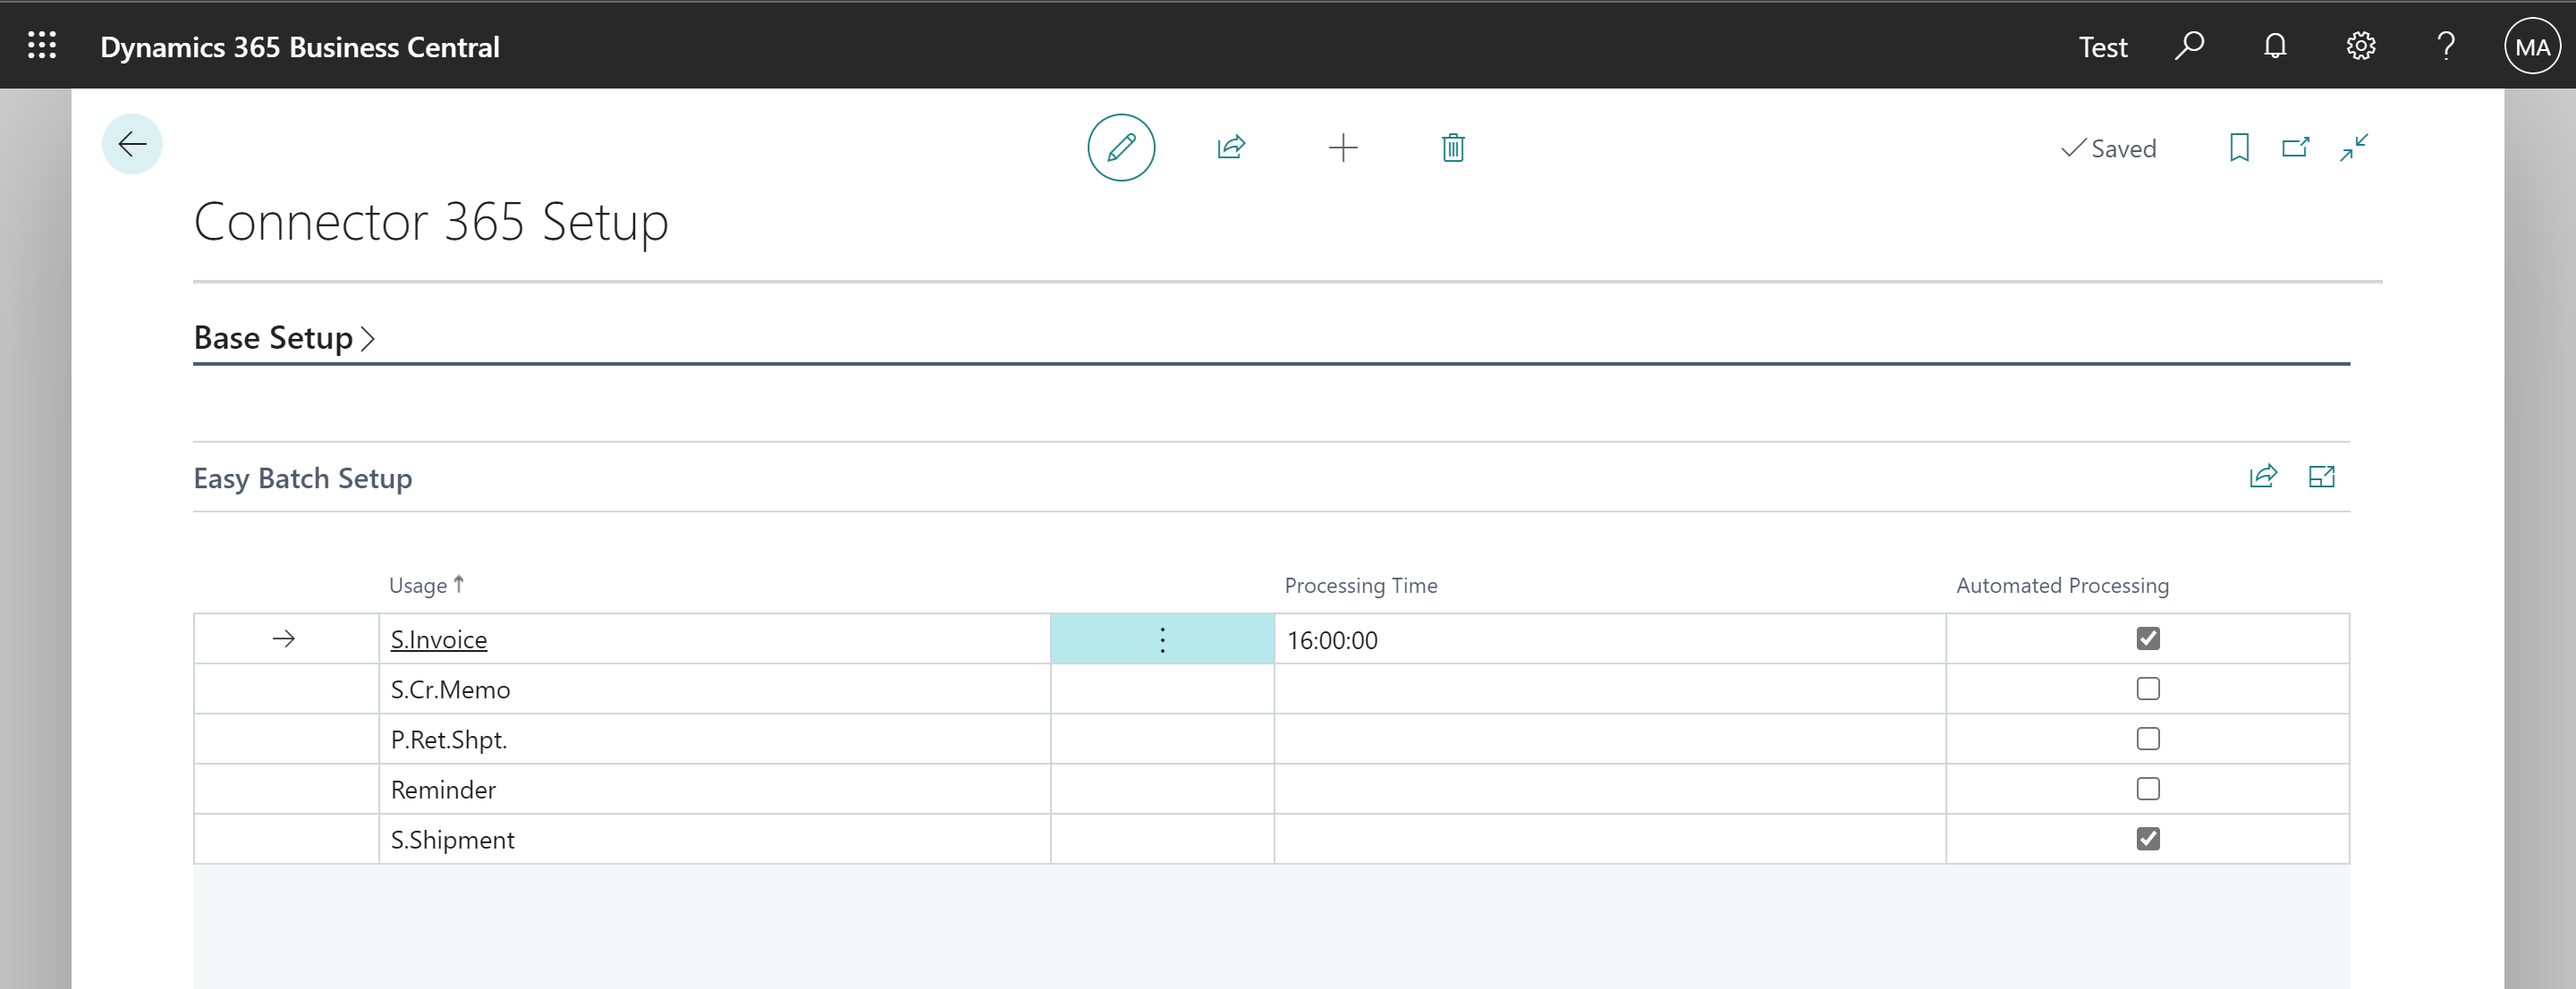
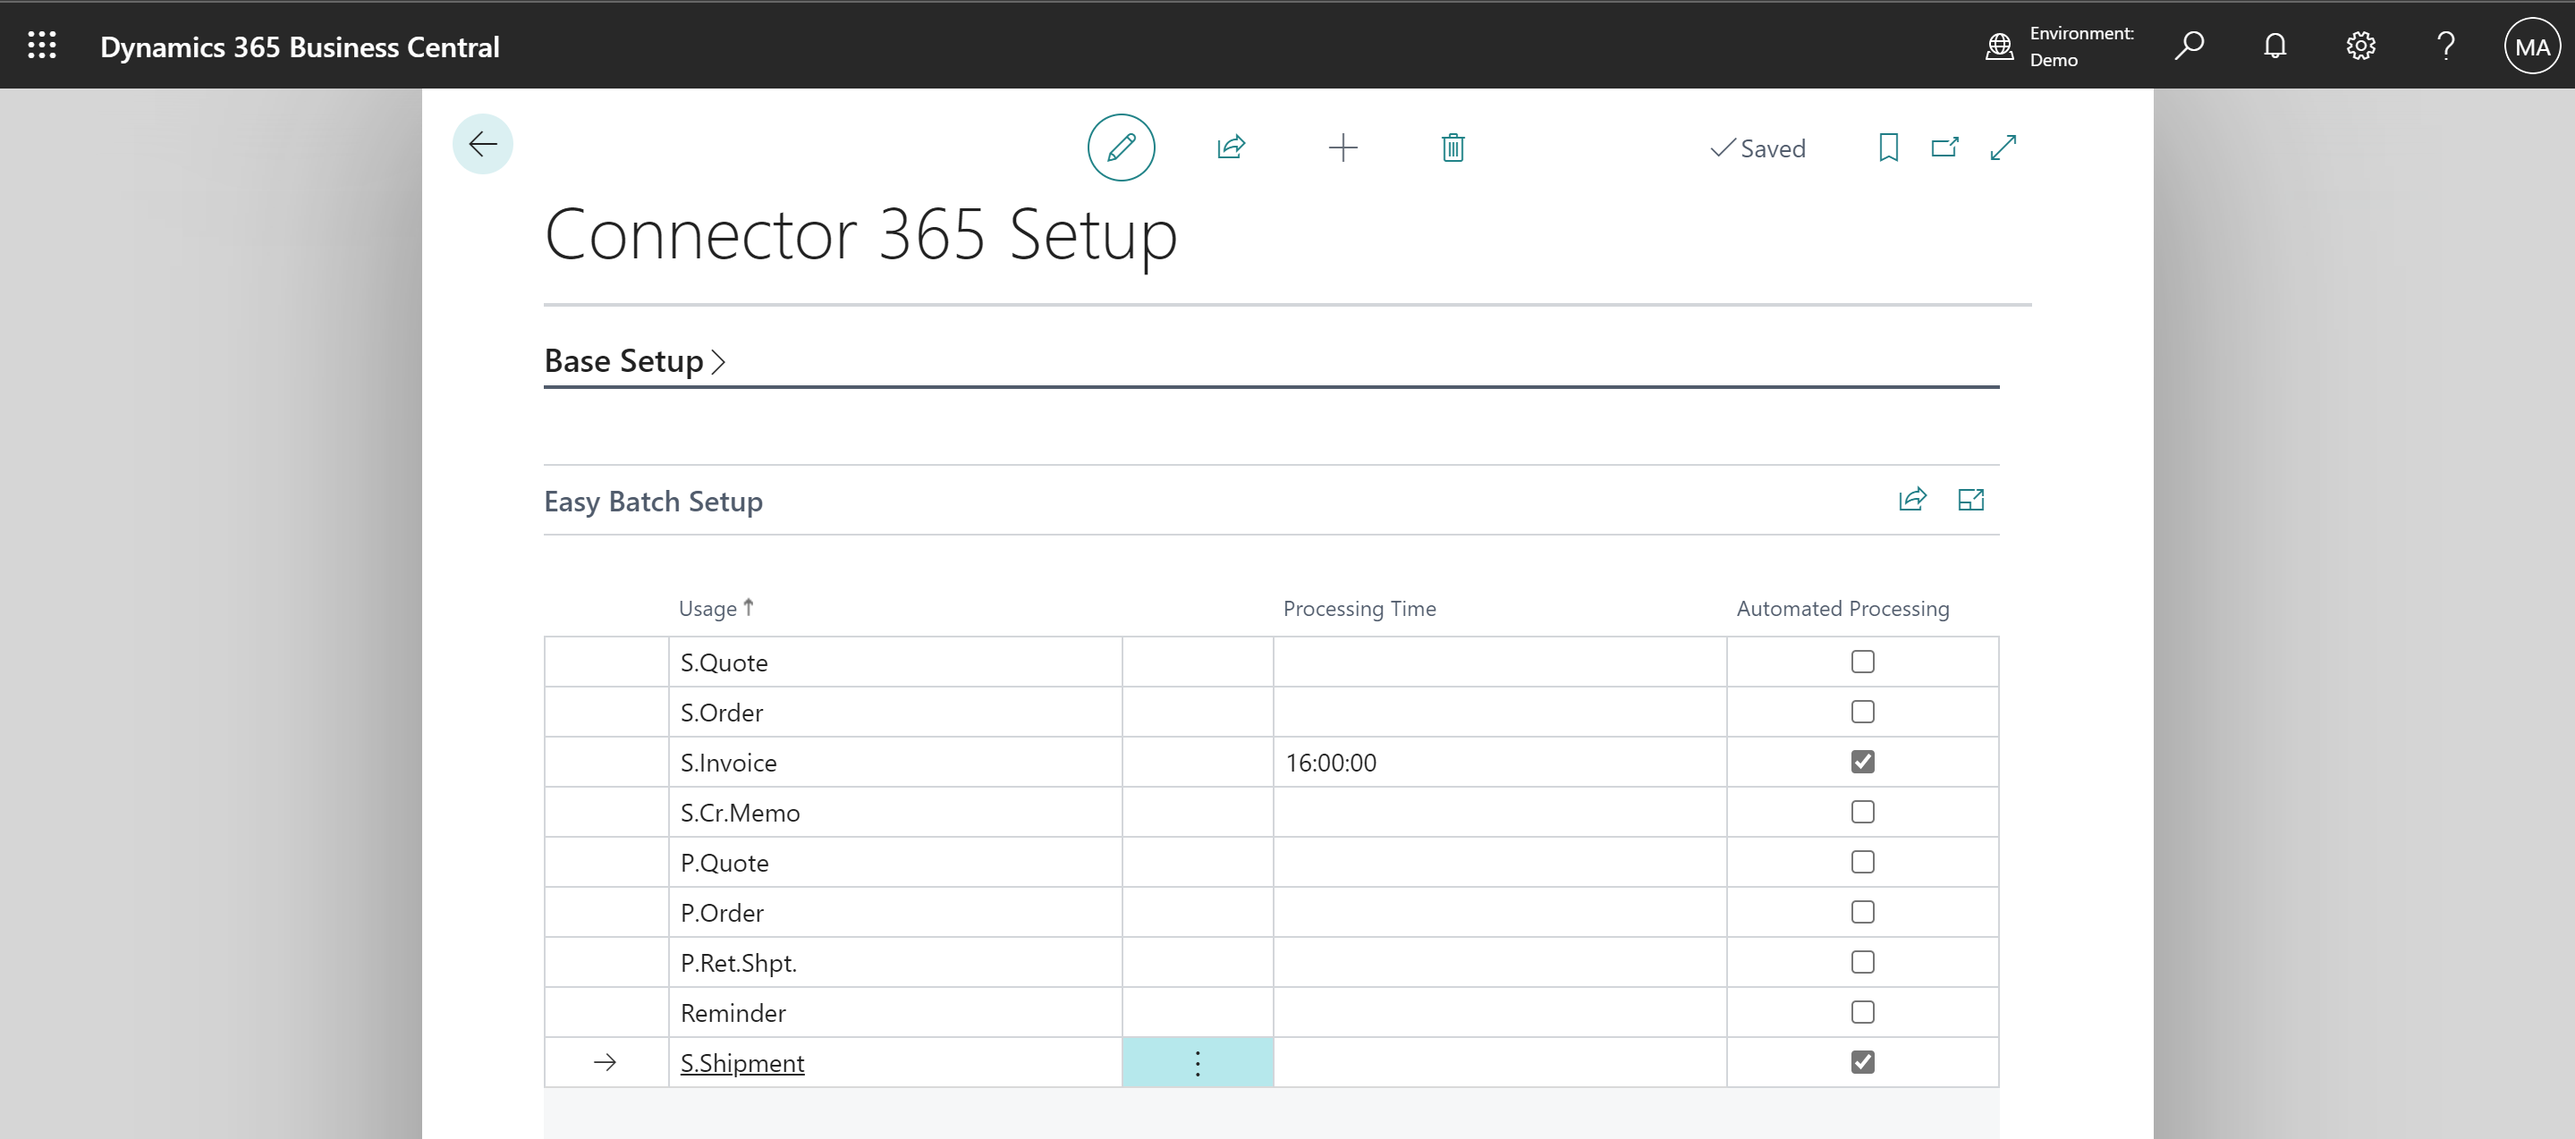
Updated Documentation for Easy Batch

diff --git a/content/de-de/Apps/pdfpaper/new and planned/_index.md b/content/de-de/Apps/pdfpaper/new and planned/_index.md
@@ -13,3 +13,22 @@ Hier finden Sie alle wichtigen Informationen und Hinweise zu neuen und geplanten
 Nutzen Sie einfach entweder das untere oder linke Navigationsmenü.
 
 Für den Fall, dass Ihnen eine Frage nicht beantwortet werden konnte, helfen wir Ihnen gerne persönlich weiter. Die nötigen Kontaktinformationen finden Sie auf der [Support-Seite](de-de/apps/help-and-support/).
+
+### Geplante Funktionen für zukünftige Versionen
+- Weitere Funktionen aus Modul PdfPaper
+- Integration von PDF/A-Funktion
+### Version 1.1.0.0 - 04.01.2023
+- Implementierung der neuen Lizenzprüfung.
+### Version 1.0.0.3
+Neue Funktionen:
+- Mergen von mehreren PDF-Dateien zu einer einzigen
+- Automatisches Drehen von PDF-Dateien, wenn diese im Querformat vorhanden sind
+- Aktionsknöpfe, um Briefpapier per Knopfdruck wieder zu entfernen 
+- Briefpapier global unter Firmendaten einrichtbar
+
+Korrekturen:
+- Korrekter Dateiname bei der Vorschau von Briefpapieren
+### Version 1.0.0.0
+- Hinterlegen von Briefpapier pro Bericht & Debitor
+- Anlegen von mehreren Briefpapieren
+- Vorschaufunktion

diff --git a/content/en-us/Apps/pdfpaper/new and planned/_index.md b/content/en-us/Apps/pdfpaper/new and planned/_index.md
@@ -13,3 +13,24 @@ Here you will find all important information and notes about new and planned fea
 Simply use either the bottom or left navigation menu.
 
 In case a question could not be answered, we will be happy to help you personally. You will find the necessary contact information on the [support page](en-us/apps/help-and-support/).
+
+### Planned functions for future versions
+- Additional functions from PdfPaper module
+- Integration of PDF/A functionality
+### Version 1.1.0.0 - 04.01.2023
+- Implementation of new license check.
+### Version 1.0.0.3
+New features:
+- Merge multiple PDF files into one
+- Automatic rotation of PDF files if they are in landscape format
+- Action buttons to remove stationery at the touch of a button
+- Stationery can be set up globally under company data
+
+Corrections:
+- Correction for file name when previewing pdf stationery
+### Version 1.0.0.0
+- Setting of stationery per report & customer
+- Create multiple stationery
+- Preview function
+
+

diff --git a/content/de-de/Apps/easy-batch/first steps/setup/easy-batch-setup.md b/content/de-de/Apps/easy-batch/first steps/setup/easy-batch-setup.md
@@ -24,3 +24,4 @@ Im Feld **Verarbeitungszeit** können Sie eine feste Zeit hinterlegen, zu welche
 Wenn Sie dieses Feld leer lassen, werden diese Belege immer sofort verarbeitet.
 
 Über das Feld **Automatisierte Verarbeitung** können Sie festlegen, dass Belege dieser Art automatisch zur Verarbeitung eingestellt werden, sobald diese gebucht werden.
+Bei Nutzung dieser Einstellung für ungebuchte Belege wie Verkaufsaufträge werden diese zur eingestellten Zeit zur Verarbeitung eingestellt, sobald diese freigegeben sind.

diff --git a/content/de-de/Apps/cti-for-starface/new and planned/_index.md b/content/de-de/Apps/cti-for-starface/new and planned/_index.md
@@ -17,7 +17,7 @@ Nutzen Sie einfach entweder das untere oder linke Navigationsmenü.
 - Ausblenden der CTI Funktionen im Rollencenter für Nicht-CTI-Nutzer
 - Herstellen der Kompatibilität für Version 7.2 und 7.3 der STARFACE Telefonanlage
 
-### Version 2.1.0.0 - 04.01.2023
+### Version 2.1.0.0 - 06.01.2023
 - Implementierung der neuen Lizenzprüfung
 - Fehlerkorrektur beim Schreiben von Aktivitäteneinträgen.
   Hier kam es einigen Fällen zu einem Fehler, da der Datensatz bereits vorhanden war.

diff --git a/content/en-us/Apps/cti-for-starface/new and planned/_index.md b/content/en-us/Apps/cti-for-starface/new and planned/_index.md
@@ -19,7 +19,7 @@ In case a question could not be answered, we will be glad to help you personally
 - Hiding the CTI functions in the Role center for non-CTI users
 - Add compatibility for versons 7.2 and 7.3 for STARFACE phone systems
 
-### Version 2.1.0.0 - 04.01.2023
+### Version 2.1.0.0 - 06.01.2023
 - Implementation of new license check.
 - Error correction for writng of activity entries.
   In some cases an error occured while writing the entry, because it already existed.

diff --git a/content/en-us/Apps/easy-batch/first steps/setup/easy-batch-setup.md b/content/en-us/Apps/easy-batch/first steps/setup/easy-batch-setup.md
@@ -24,3 +24,4 @@ In the field **Processing Time** you can enter a fixed time when documents of th
 If you leave this field empty, all documents will be processed immediately.
 
 Using the field **Automated Processing** you can define that all documents of this type shall be processed automatically after being posted.
+Using this setting for unposted documents like sales orders, will enqueue those for automated processing at the set up time as soon as they are released.

diff --git a/content/de-de/Apps/addressee-control/new and planned/_index.md b/content/de-de/Apps/addressee-control/new and planned/_index.md
@@ -14,7 +14,7 @@ Nutzen Sie einfach entweder das untere oder linke Navigationsmenü.
 
 Für den Fall, dass Ihnen eine Frage nicht beantwortet werden konnte, helfen wir Ihnen gerne persönlich weiter. Die nötigen Kontaktinformationen finden Sie auf der [Support-Seite](de-de/apps/help-and-support/).
 
-### Version 1.1.0.0 - 04.01.2023
+### Version 1.1.0.0 - 06.01.2023
 - Implementierung der neuen Lizenzprüfung
 
 ### Version 1.0.0.1 - 17.11.2022

diff --git a/content/en-us/Apps/addressee-control/new and planned/_index.md b/content/en-us/Apps/addressee-control/new and planned/_index.md
@@ -14,7 +14,7 @@ Simply use either the bottom or left navigation menu.
 
 In case a question could not be answered, we will be happy to help you personally. You can find the necessary contact information on the [support page](en-us/apps/help-and-support/).
 
-### Version 1.1.0.0 - 04.01.2023
+### Version 1.1.0.0 - 06.01.2023
 - Implementation of new license check.
 
 ### Version 1.0.0.1 - 17.11.2022

diff --git a/content/de-de/Apps/easy-batch/new and planned/_index.md b/content/de-de/Apps/easy-batch/new and planned/_index.md
@@ -12,7 +12,7 @@ weight: 1
 ### Geplante Funktionen für zukünftige Versionen
 - Implementierung weiterer Belege aus dem Einkaufsbereich sowie Servicebereich.
 
-### Version 2.3.0.0 - 04.01.2023
+### Version 2.3.0.0 - 06.01.2023
 - Implementierung der neuen Lizenzprüfung.
 - Einkaufsbereich um Einkaufsanfragen erweitert.
 - Automatisierter Versand für Einkaufsbestellungen und Einkaufsanfragen.

diff --git a/content/en-us/Apps/easy-batch/new and planned/_index.md b/content/en-us/Apps/easy-batch/new and planned/_index.md
@@ -12,7 +12,7 @@ weight: 1
 ### Planned functions for future versions
 - Implementation of new document types from purchase as well as service.
 
-### Version 2.3.0.0 - 04.01.2023
+### Version 2.3.0.0 - 06.01.2023
 - Implementation of new license check.
 - Extended purchasing department with purchase quotes.
 - Autamted processing of purchase orders and purchadse quotes.

diff --git a/content/de-de/Apps/mail-attachments-plus/new and planned/_index.md b/content/de-de/Apps/mail-attachments-plus/new and planned/_index.md
@@ -12,7 +12,7 @@ weight: 1
 ### Geplante Funktionen für zukünftige Versionen
 - Anhangsfunktionalitäten auf weiteren Ebenen
 
-### Version 2.1.0.0 - 04.01.2023
+### Version 2.1.0.0 - 06.01.2023
 - Implementierung der neuen Lizenzprüfung.
 
 ### Version 2.0.0.1 vom 04.11.2022

diff --git a/content/en-us/Apps/easy-document-pin/new and planned/_index.md b/content/en-us/Apps/easy-document-pin/new and planned/_index.md
@@ -12,7 +12,7 @@ weight: 1
 ### Planned functions for future versions
 - Automatic attachment of delivery bills
 
-### Version 2.1.0.0 - 04.01.2023
+### Version 2.1.0.0 - 06.01.2023
 - Implementation of new license check.
 - Improved filtering for linked documents to reminder.
 
